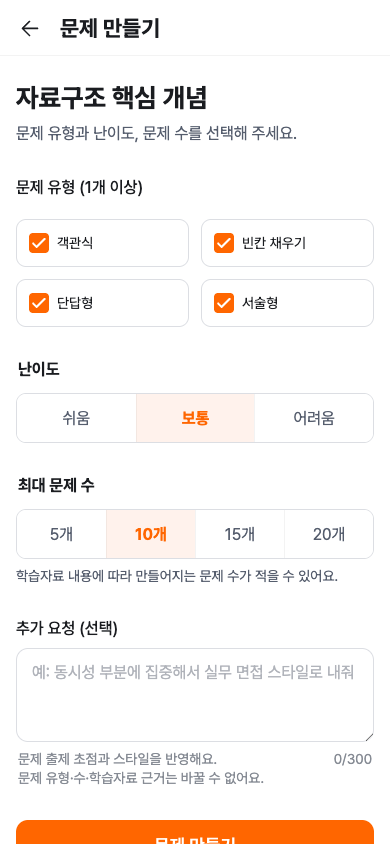
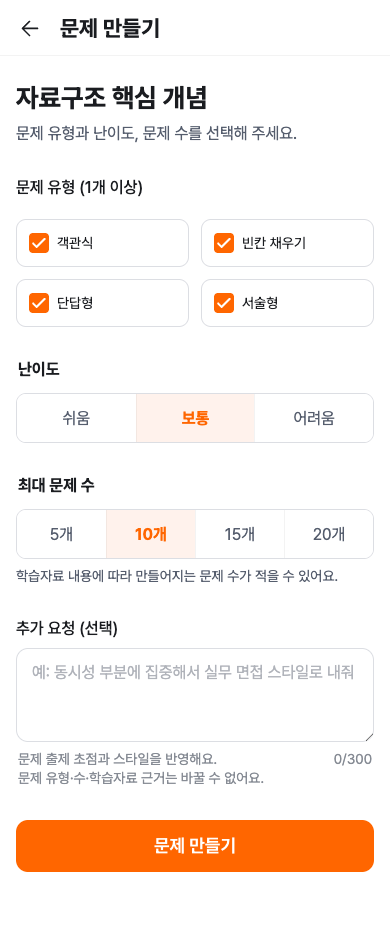
fix(web): address follow-up review feedback

diff --git a/web/src/app/shell/AuthenticatedAppShell.tsx b/web/src/app/shell/AuthenticatedAppShell.tsx
@@ -44,21 +44,17 @@ function AuthenticatedAppShellContent() {
   const isNotificationsPage = location.pathname === '/notifications'
   const documentScrollEnabled = !isNotificationsPage && isTopLevelTabPath(location.pathname)
 
-  useEffect(() => {
-    const rememberScrollPosition = () => {
-      if (!documentScrollEnabledRef.current) return
-      tabScrollPositionsRef.current[activeTabRef.current] = window.scrollY
-    }
+  const rememberActiveTabScrollPosition = () => {
+    if (!documentScrollEnabledRef.current) return
+    tabScrollPositionsRef.current[activeTabRef.current] = window.scrollY
+  }
 
-    window.addEventListener('scroll', rememberScrollPosition, { passive: true })
-    return () => window.removeEventListener('scroll', rememberScrollPosition)
+  useEffect(() => {
+    window.addEventListener('scroll', rememberActiveTabScrollPosition, { passive: true })
+    return () => window.removeEventListener('scroll', rememberActiveTabScrollPosition)
   }, [])
 
   useLayoutEffect(() => {
-    if (documentScrollEnabledRef.current && documentScrollEnabled) {
-      tabScrollPositionsRef.current[activeTabRef.current] = window.scrollY
-    }
-
     activeTabRef.current = activeTab
     documentScrollEnabledRef.current = documentScrollEnabled
     const nextScrollTop = documentScrollEnabled ? tabScrollPositionsRef.current[activeTab] : 0
@@ -85,6 +81,7 @@ function AuthenticatedAppShellContent() {
     if (tab === activeTab && isTopLevelTabPath(location.pathname)) return
     if (pendingTabRef.current === tab) return
     const replace = pendingTabRef.current !== null
+    rememberActiveTabScrollPosition()
     pendingTabRef.current = tab
     setVisitedTabs((current) => current[tab] ? current : { ...current, [tab]: true })
     navigate(appTabPaths[tab], { replace })

diff --git a/web/src/pages/onboarding/onboardingCarousel.ts b/web/src/pages/onboarding/onboardingCarousel.ts
@@ -1,4 +1,4 @@
-export type OnboardingMoveSource = 'carousel' | 'control'
+export type OnboardingMoveSource = 'carousel' | 'control' | 'keyboard'
 
 export function moveOnboardingIndex(
   current: number,
@@ -11,6 +11,6 @@ export function moveOnboardingIndex(
 
   return {
     index,
-    focusHeading: source === 'control' && reachedBoundary,
+    focusHeading: source === 'keyboard' || (source === 'control' && reachedBoundary),
   }
 }

diff --git a/web/src/pages/onboarding/OnboardingPage.tsx b/web/src/pages/onboarding/OnboardingPage.tsx
@@ -68,11 +68,11 @@ export function OnboardingPage({ mode, onExit }: OnboardingPageProps) {
   const handleKeyDown = (event: KeyboardEvent<HTMLElement>) => {
     if (event.key === 'ArrowLeft' && previousAvailable) {
       event.preventDefault()
-      move(-1)
+      move(-1, 'keyboard')
     }
     if (event.key === 'ArrowRight' && nextAvailable) {
       event.preventDefault()
-      move(1)
+      move(1, 'keyboard')
     }
   }
 

diff --git a/web/src/pages/onboarding/onboarding.css b/web/src/pages/onboarding/onboarding.css
@@ -13,7 +13,9 @@
 .onboarding-content {
   min-height: 0;
   flex: 1;
-  overflow: hidden;
+  overflow-x: hidden;
+  overflow-y: auto;
+  overscroll-behavior-y: contain;
   padding-top: var(--seed-dimension-x4);
   padding-bottom: calc(168px + var(--seed-safe-area-bottom));
 }
